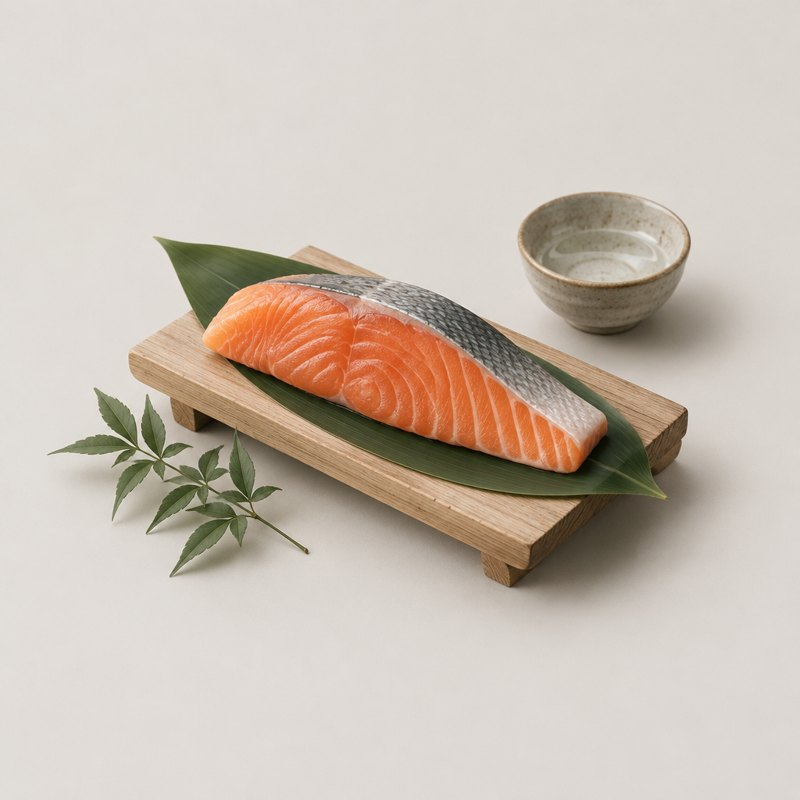
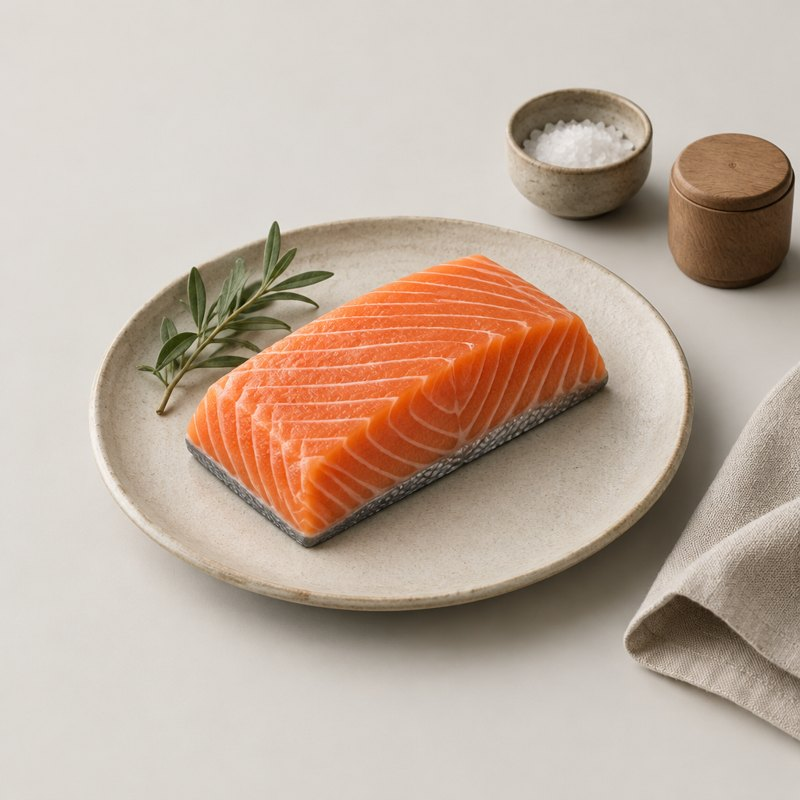
食材審核修正：重生 22 件（補查證外觀）、新增牛部位 6、頭足類 5、木雕動物擺飾 7；食材模板加「只有這一樣食材」

diff --git a/props.js b/props.js
@@ -122,7 +122,7 @@ const RAW = {
     餐具: [['天然竹筷一雙', '長約 24 公分'], ['不鏽鋼湯匙', '長約 15 公分'], ['竹筷筒', '高約 12 公分'], ['白瓷湯匙', '長約 13 公分']],
     軟裝: [['綠玻璃瓶插雞蛋花', '高約 22 公分'], ['綠色鐵皮小電扇', '高約 30 公分'], ['花紋鐵製保溫瓶', '高約 30 公分'], ['紅色塑膠椅一角', '高約 45 公分'], ['舊報紙（無字）', '寬約 40 公分'], ['撕頁月曆（無字）', '寬約 30 公分'], ['茉莉花小盆', '高約 20 公分']],
     墊高: [['竹製蒸籠', '直徑約 25 公分'], ['藤編托盤', '直徑約 35 公分']],
-    食材: [["生白米一小碗", "直徑約 12 公分"], ["糯米一小碗", "直徑約 12 公分"], ["紅豆一小堆", "寬約 12 公分"], ["綠豆一小碗", "直徑約 10 公分"], ["花生一小把", "寬約 10 公分"], ["黑糖塊一小堆", "寬約 10 公分"], ["冬瓜糖塊一小碟", "直徑約 9 公分"], ["乾香菇一小堆", "每朵約 4 公分"], ["蝦米一小碟", "直徑約 9 公分"], ["乾燥白蘿蔔乾一小束", "寬約 10 公分"], ["菜脯一小碟", "直徑約 9 公分"], ["地瓜幾條", "每條約 15 公分"], ["芋頭一顆", "直徑約 12 公分"], ["老薑一塊", "長約 8 公分"], ["紅蔥頭一小堆", "每顆約 3 公分"], ["生雞蛋一小籃", "籃寬約 20 公分"], ["鹹鴨蛋三顆", "每顆約 6 公分"], ["白砂糖一小碗", "直徑約 10 公分"], ["醬油一小瓶", "高約 15 公分"], ["豆腐一塊", "邊長約 8 公分"], ["空心菜一小束", "長約 25 公分"], ["絲瓜一條", "長約 30 公分"], ["大蒜一串", "長約 25 公分"], ["乾辣椒一小串", "長約 15 公分"], ["粗鹽一小碟", "直徑約 9 公分"], ["麵線一小捆", "長約 25 公分"], ["麵粉一小碗", "直徑約 12 公分"], ["香蕉一小串", "長約 18 公分"], ["楊桃一顆", "長約 12 公分"], ["白木耳一小朵", "直徑約 8 公分"]],
+    食材: [["生白米一小碗", "直徑約 12 公分"], ["糯米一小碗", "直徑約 12 公分"], ["紅豆一小堆", "寬約 12 公分"], ["綠豆一小碗", "直徑約 10 公分"], ["花生一小把", "寬約 10 公分"], ["黑糖塊一小堆", "寬約 10 公分"], ["冬瓜糖塊一小碟", "直徑約 9 公分"], ["乾香菇一小堆", "每朵約 4 公分"], ["蝦米一小碟", "直徑約 9 公分"], ["條狀菜脯一小束", "寬約 10 公分"], ["菜脯一小碟", "直徑約 9 公分"], ["地瓜幾條", "每條約 15 公分"], ["芋頭一顆", "直徑約 12 公分"], ["老薑一塊", "長約 8 公分"], ["紅蔥頭一小堆", "每顆約 3 公分"], ["生雞蛋一小籃", "籃寬約 20 公分"], ["鹹鴨蛋三顆", "每顆約 6 公分"], ["白砂糖一小碗", "直徑約 10 公分"], ["醬油一小瓶", "高約 15 公分"], ["豆腐一塊", "邊長約 8 公分"], ["空心菜一小束", "長約 25 公分"], ["絲瓜一條", "長約 30 公分"], ["大蒜一串", "長約 25 公分"], ["乾辣椒一小串", "長約 15 公分"], ["粗鹽一小碟", "直徑約 9 公分"], ["麵線一小捆", "長約 25 公分"], ["麵粉一小碗", "直徑約 12 公分"], ["香蕉一小串", "長約 18 公分"], ["楊桃一顆", "長約 12 公分"], ["白木耳一小朵", "直徑約 8 公分"]],
   },
   korean: {
     桌面: [['奶油色桌面', '桌面'], ['米白微水泥', '桌面'], ['淺奶茶色木桌', '桌面']],
@@ -187,7 +187,7 @@ const RAW = {
     後景: [['白色肌理牆面紙', '後景'], ['小木籬笆擺飾', '寬約 30 公分']],
     容器: [['霧面斑點釉陶盤', '直徑約 24 公分'], ['石陶霧面碗', '直徑約 14 公分'], ['不規則玻璃盤', '直徑約 20 公分'], ['黑色石板盤', '長約 30 公分'], ['白色琺瑯盤', '直徑約 22 公分'], ['小陶碟組', '直徑約 9 公分'], ['透明玻璃杯', '高約 10 公分']],
     餐具: [['金色餐具組', '長約 20 公分'], ['復古銀叉', '長約 18 公分'], ['原木小勺', '長約 15 公分'], ['金色甜點匙', '長約 13 公分']],
-    軟裝: [['人造玫瑰花束', '長約 35 公分'], ['新鮮羅勒葉', '長約 15 公分'], ['穀物雜糧小碟', '直徑約 10 公分'], ['乾燥麥穗', '長約 40 公分']],
+    軟裝: [['人造玫瑰花束', '長約 35 公分'], ['新鮮羅勒葉', '長約 15 公分'], ['穀物雜糧小碟', '直徑約 10 公分'], ['乾燥麥穗', '長約 40 公分'], ["木雕鵝擺飾", "高約 12 公分"], ["木雕鴨擺飾", "高約 10 公分"], ["木雕豬擺飾", "長約 12 公分"], ["木雕牛擺飾", "長約 14 公分"], ["木雕雞擺飾", "高約 12 公分"], ["木雕魚擺飾", "長約 15 公分"], ["木雕蝦擺飾", "長約 12 公分"]],
     墊高: [['原木托盤', '寬約 35 公分'], ['原木砧板', '長約 35 公分'], ['白瓷蛋糕架', '直徑約 25 公分']],
     食材: [["新鮮羅勒葉一小束", "長約 15 公分"], ["檸檬三顆", "每顆約 7 公分"], ["小番茄一小串", "每顆約 3 公分"], ["酪梨半顆", "長約 8 公分"], ["生雞蛋三顆", "每顆約 6 公分"], ["整顆蒜頭兩顆", "每顆約 5 公分"], ["草莓一小碟", "直徑約 10 公分"], ["藍莓一小把", "每顆約 1.5 公分"], ["堅果一小碗", "直徑約 10 公分"], ["橄欖一小碟", "直徑約 9 公分"]],
   },
@@ -209,7 +209,7 @@ const RAW = {
     餐具: [['霧面黑色刀叉', '長約 20 公分'], ['不鏽鋼湯匙', '長約 16 公分'], ['木柄餐刀', '長約 22 公分'], ['金屬料理夾', '長約 25 公分']],
     軟裝: [['鐵絲籃', '寬約 25 公分'], ['玻璃煤油燈', '高約 25 公分'], ['黑鐵小置物架', '寬約 30 公分'], ['金屬齒輪擺飾', '直徑約 10 公分'], ['愛迪生燈泡', '高約 15 公分'], ['空白黑板小立牌', '高約 20 公分'], ['粗麻繩捲', '直徑約 10 公分']],
     墊高: [['舊木箱', '寬約 35 公分'], ['水泥方塊底座', '邊長約 12 公分']],
-    食材: [["咖啡豆一小堆", "寬約 10 公分"], ["黑麥粒一小碗", "直徑約 10 公分"], ["粗鹽一小碟", "直徑約 8 公分"], ["黑胡椒粒一小碟", "直徑約 8 公分"], ["整顆蒜頭兩顆", "每顆約 5 公分"], ["一塊生牛排", "長約 15 公分"], ["紅洋蔥兩顆", "每顆約 7 公分"], ["乾辣椒一小撮", "長約 6 公分"], ["馬鈴薯三顆", "每顆約 7 公分"], ["黑橄欖一小碟", "直徑約 9 公分"]],
+    食材: [["咖啡豆一小堆", "寬約 10 公分"], ["黑麥粒一小碗", "直徑約 10 公分"], ["粗鹽一小碟", "直徑約 8 公分"], ["黑胡椒粒一小碟", "直徑約 8 公分"], ["整顆蒜頭兩顆", "每顆約 5 公分"], ["肋眼牛排一塊", "長約 15 公分"], ["紅洋蔥兩顆", "每顆約 7 公分"], ["乾辣椒一小撮", "長約 6 公分"], ["馬鈴薯三顆", "每顆約 7 公分"], ["黑橄欖一小碟", "直徑約 9 公分"], ["菲力牛排一塊", "厚約 4 公分"], ["紐約客牛排一塊", "長約 20 公分"], ["牛小排一塊", "長約 15 公分"], ["板腱牛排一塊", "長約 18 公分"], ["翼板牛排一塊", "長約 20 公分"], ["牛五花燒烤片一小疊", "寬約 12 公分"]],
   },
   xmas: {
     桌面: [['人造雪粉鋪面', '桌面'], ['深色木板', '約 60×60 公分'], ['霧面金色金屬板', '桌面']],
@@ -289,7 +289,7 @@ const RAW = {
     餐具: [['不鏽鋼筷子一雙', '長約 24 公分'], ['不鏽鋼湯匙', '長約 17 公分'], ['竹製免洗筷（無字筷套）', '長約 21 公分'], ['不鏽鋼食物夾', '長約 24 公分']],
     軟裝: [['紅色塑膠圓凳', '高約 45 公分'], ['不鏽鋼面紙盒（無字）', '寬約 24 公分'], ['不鏽鋼牙籤筒', '高約 7 公分'], ['玻璃調味瓶組（無字）', '高約 10 公分'], ['空綠色玻璃啤酒瓶（無字）', '高約 25 公分'], ['不鏽鋼冰桶', '高約 20 公分'], ['不鏽鋼筷筒', '高約 12 公分']],
     墊高: [['原木厚砧板', '長約 30 公分'], ['不鏽鋼烤盤架', '長約 30 公分']],
-    食材: [["生空心菜一小束", "長約 25 公分"], ["整顆蒜頭三顆", "每顆約 5 公分"], ["蒜瓣一小堆", "每瓣約 3 公分"], ["新鮮紅辣椒一小堆", "長約 8 公分"], ["青蔥一小束", "長約 30 公分"], ["老薑切片一小堆", "寬約 10 公分"], ["九層塔一小束", "長約 15 公分"], ["生透抽一尾", "長約 25 公分"], ["生蛤蜊一小碗", "每顆約 4 公分"], ["生蝦子一小盤", "每隻約 8 公分"], ["生五花肉一塊", "長約 15 公分"], ["一塊生牛排", "長約 15 公分"], ["生雞胸肉一塊", "長約 12 公分"], ["豆豉一小碟", "直徑約 8 公分"], ["豆瓣醬一小碗", "直徑約 9 公分"], ["米酒一小瓶", "高約 18 公分"], ["醬油一小瓶", "高約 15 公分"], ["白胡椒粒一小碟", "直徑約 8 公分"], ["海鹽一小碟", "直徑約 8 公分"], ["生韭菜花一小束", "長約 25 公分"], ["生豆芽菜一小堆", "寬約 12 公分"], ["青江菜幾棵", "長約 15 公分"], ["高麗菜半顆", "直徑約 15 公分"], ["生山蘇一小束", "長約 25 公分"], ["生苦瓜半條", "長約 15 公分"], ["鳳梨半顆", "長約 15 公分"], ["生花枝一尾", "長約 20 公分"], ["乾魷魚絲一小把", "長約 15 公分"], ["生杏鮑菇三支", "長約 12 公分"], ["生雞蛋五顆", "每顆約 6 公分"]],
+    食材: [["生空心菜一小束", "長約 25 公分"], ["整顆蒜頭三顆", "每顆約 5 公分"], ["蒜瓣一小堆", "每瓣約 3 公分"], ["新鮮紅辣椒一小堆", "長約 8 公分"], ["青蔥一小束", "長約 30 公分"], ["老薑切片一小堆", "寬約 10 公分"], ["九層塔一小束", "長約 15 公分"], ["生透抽一尾", "長約 25 公分"], ["生蛤蜊一小碗", "每顆約 4 公分"], ["生蝦子一小盤", "每隻約 8 公分"], ["生五花肉一塊", "長約 15 公分"], ["一塊生牛排", "長約 15 公分"], ["生雞胸肉一塊", "長約 12 公分"], ["豆豉一小碟", "直徑約 8 公分"], ["豆瓣醬一小碗", "直徑約 9 公分"], ["米酒一小瓶", "高約 18 公分"], ["醬油一小瓶", "高約 15 公分"], ["白胡椒粒一小碟", "直徑約 8 公分"], ["海鹽一小碟", "直徑約 8 公分"], ["生韭菜花一小束", "長約 25 公分"], ["生豆芽菜一小堆", "寬約 12 公分"], ["青江菜幾棵", "長約 15 公分"], ["高麗菜半顆", "直徑約 15 公分"], ["生山蘇一小束", "長約 25 公分"], ["生苦瓜半條", "長約 15 公分"], ["鳳梨半顆", "長約 15 公分"], ["生花枝一尾", "長約 20 公分"], ["乾魷魚絲一小把", "長約 15 公分"], ["生杏鮑菇三支", "長約 12 公分"], ["生雞蛋五顆", "每顆約 6 公分"], ["生花枝一尾", "長約 20 公分"], ["生軟絲一尾", "長約 25 公分"], ["生小卷一小堆", "每尾約 10 公分"], ["生魷魚一尾", "長約 30 公分"], ["生章魚一尾", "寬約 20 公分"]],
   },
   izakaya: {
     桌面: [['深胡桃老木桌面', '桌面'], ['黑檀色霧面吧台木面', '桌面'], ['深色竹編桌墊面', '桌面']],
@@ -299,7 +299,7 @@ const RAW = {
     餐具: [['陶製德利酒壺（無字）', '高約 12 公分'], ['陶製清酒杯（無字）', '高約 5 公分'], ['長竹籤一束', '長約 18 公分'], ['黑漆木筷一雙', '長約 23 公分']],
     軟裝: [['日式紅燈籠（無字）', '高約 30 公分'], ['竹製菜單夾（無字）', '寬約 20 公分'], ['小木箱', '寬約 20 公分'], ['麻繩一捆', '直徑約 10 公分'], ['小木桶', '高約 15 公分'], ['竹筷架', '長約 10 公分'], ['黑陶小香爐', '直徑約 8 公分']],
     墊高: [['木製階梯盤架', '長約 30 公分'], ['竹製墊板', '寬約 20 公分']],
-    食材: [["青蔥一小束", "長約 30 公分"], ["新鮮紫蘇葉一小疊", "長約 8 公分"], ["生薑一塊", "長約 8 公分"], ["白蘿蔔泥一小堆", "直徑約 8 公分"], ["一塊生鮭魚", "長約 12 公分"], ["生干貝幾顆", "每顆約 4 公分"], ["生蝦幾尾", "每隻約 10 公分"], ["生雞腿肉一塊", "長約 15 公分"], ["生雞胗一小堆", "寬約 10 公分"], ["生五花肉薄片一小疊", "寬約 12 公分"], ["生香菇三朵", "每朵約 6 公分"], ["生杏鮑菇三支", "長約 12 公分"], ["青椒三顆", "每顆約 6 公分"], ["小番茄一小堆", "每顆約 3 公分"], ["整顆茄子一條", "長約 20 公分"], ["秋葵一小堆", "每條約 7 公分"], ["毛豆莢一小碗", "直徑約 12 公分"], ["生銀杏幾顆", "每顆約 2 公分"], ["整顆檸檬三顆", "每顆約 7 公分"], ["酢橘幾顆", "每顆約 4 公分"], ["生山藥一段", "長約 15 公分"], ["整顆蒜頭兩顆", "每顆約 5 公分"], ["白蔥段一小堆", "每段約 5 公分"], ["粗海鹽一小碟", "直徑約 8 公分"], ["黑胡椒粒一小碟", "直徑約 8 公分"], ["乾昆布一小片", "長約 20 公分"], ["柴魚片一小堆", "寬約 10 公分"], ["白芝麻一小碟", "直徑約 8 公分"], ["一小碗生米", "直徑約 12 公分"], ["生豆腐一塊", "邊長約 8 公分"]],
+    食材: [["青蔥一小束", "長約 30 公分"], ["新鮮紫蘇葉一小疊", "長約 8 公分"], ["生薑一塊", "長約 8 公分"], ["白蘿蔔泥一小堆", "直徑約 8 公分"], ["鮭魚肚切片一塊", "長約 12 公分"], ["生干貝幾顆", "每顆約 4 公分"], ["生蝦幾尾", "每隻約 10 公分"], ["生雞腿肉一塊", "長約 15 公分"], ["生雞胗一小堆", "寬約 10 公分"], ["生五花肉薄片一小疊", "寬約 12 公分"], ["生香菇三朵", "每朵約 6 公分"], ["生杏鮑菇三支", "長約 12 公分"], ["青椒三顆", "每顆約 6 公分"], ["小番茄一小堆", "每顆約 3 公分"], ["整顆茄子一條", "長約 20 公分"], ["秋葵一小堆", "每條約 7 公分"], ["毛豆莢一小碗", "直徑約 12 公分"], ["生銀杏幾顆", "每顆約 2 公分"], ["整顆檸檬三顆", "每顆約 7 公分"], ["酢橘幾顆", "每顆約 4 公分"], ["生山藥一段", "長約 15 公分"], ["整顆蒜頭兩顆", "每顆約 5 公分"], ["白蔥段一小堆", "每段約 5 公分"], ["粗海鹽一小碟", "直徑約 8 公分"], ["黑胡椒粒一小碟", "直徑約 8 公分"], ["乾昆布一小片", "長約 20 公分"], ["柴魚片一小堆", "寬約 10 公分"], ["白芝麻一小碟", "直徑約 8 公分"], ["一小碗生米", "直徑約 12 公分"], ["生豆腐一塊", "邊長約 8 公分"]],
   },
   patisserie: {
     桌面: [['白色灰紋大理石桌面', '桌面'], ['霧面淺橡木桌面', '桌面'], ['霧面水泥灰桌面', '桌面']],
@@ -319,7 +319,7 @@ const RAW = {
     餐具: [['竹製茶匙', '長約 13 公分'], ['漆木筷一雙', '長約 23 公分'], ['木牙籤一小束', '長約 9 公分'], ['木製湯匙', '長約 18 公分']],
     軟裝: [['木製茶托', '直徑約 12 公分'], ['檜木小板凳', '高約 15 公分'], ['竹製花器（空）', '高約 20 公分'], ['灰色卵石一小堆', '每顆約 6 公分'], ['小竹簍', '直徑約 15 公分'], ['麻繩一捆', '直徑約 10 公分'], ['檜木小木桶', '高約 12 公分']],
     墊高: [['檜木墊板', '長約 25 公分'], ['石板墊', '寬約 20 公分']],
-    食材: [["生白米一小碗", "直徑約 12 公分"], ["青梅一小碟", "每顆約 3 公分"], ["文旦兩顆", "每顆約 8 公分"], ["新鮮山葵根一條", "長約 12 公分"], ["生香菇三朵", "每朵約 6 公分"], ["乾香菇一小堆", "每朵約 4 公分"], ["乾昆布一小片", "長約 20 公分"], ["柴魚片一小堆", "寬約 10 公分"], ["白味噌一小碗", "直徑約 9 公分"], ["粗海鹽一小碟", "直徑約 8 公分"], ["青蔥一小束", "長約 30 公分"], ["生薑一塊", "長約 8 公分"], ["生豆腐一塊", "邊長約 8 公分"], ["生雞蛋三顆", "每顆約 6 公分"], ["地瓜兩條", "每條約 15 公分"], ["栗子一小堆", "每顆約 3 公分"], ["銀杏果一小撮", "每顆約 2 公分"], ["白蘿蔔一小段", "長約 15 公分"], ["牛蒡一條", "長約 30 公分"], ["蓮藕一段", "長約 15 公分"], ["菠菜一小束", "長約 20 公分"], ["一塊生鮭魚", "長約 12 公分"], ["生蝦兩尾", "每隻約 10 公分"], ["烏龍麵生麵一小捆", "長約 20 公分"], ["蕎麥麵乾麵一小捆", "長約 22 公分"], ["綠茶茶葉一小碟", "直徑約 9 公分"], ["焙茶茶葉一小撮", "直徑約 8 公分"], ["紅豆一小碗", "直徑約 10 公分"], ["黑芝麻一小碟", "直徑約 8 公分"], ["柿子兩顆", "每顆約 7 公分"]],
+    食材: [["生白米一小碗", "直徑約 12 公分"], ["青梅一小碟", "每顆約 3 公分"], ["文旦兩顆", "每顆約 8 公分"], ["新鮮山葵根一條", "長約 12 公分"], ["生香菇三朵", "每朵約 6 公分"], ["乾香菇一小堆", "每朵約 4 公分"], ["乾昆布一小片", "長約 20 公分"], ["柴魚片一小堆", "寬約 10 公分"], ["白味噌一小碗", "直徑約 9 公分"], ["粗海鹽一小碟", "直徑約 8 公分"], ["青蔥一小束", "長約 30 公分"], ["生薑一塊", "長約 8 公分"], ["生豆腐一塊", "邊長約 8 公分"], ["生雞蛋三顆", "每顆約 6 公分"], ["地瓜兩條", "每條約 15 公分"], ["栗子一小堆", "每顆約 3 公分"], ["銀杏果一小撮", "每顆約 2 公分"], ["白蘿蔔一小段", "長約 15 公分"], ["牛蒡一條", "長約 30 公分"], ["蓮藕一段", "長約 15 公分"], ["菠菜一小束", "長約 20 公分"], ["帶皮鮭魚菲力一塊", "長約 12 公分"], ["生蝦兩尾", "每隻約 10 公分"], ["烏龍麵生麵一小捆", "長約 20 公分"], ["蕎麥麵乾麵一小捆", "長約 22 公分"], ["綠茶茶葉一小碟", "直徑約 9 公分"], ["焙茶茶葉一小撮", "直徑約 8 公分"], ["紅豆一小碗", "直徑約 10 公分"], ["黑芝麻一小碟", "直徑約 8 公分"], ["柿子兩顆", "每顆約 7 公分"]],
   },
 };
 

diff --git a/審核頁.py b/審核頁.py
@@ -20,19 +20,21 @@ h2{margin:20px 16px 6px}.grid{display:grid;grid-template-columns:repeat(auto-fil
 .c .n{font-size:13px;margin:6px 0 4px}.c input{width:100%;box-sizing:border-box;font:inherit;font-size:13px;padding:4px 6px;border:1px solid #ddd;border-radius:6px;margin-bottom:6px}
 .b{display:flex;gap:4px}.b button{flex:1;border:1px solid #ccc;background:#fff;border-radius:6px;padding:5px 0;font-size:13px;cursor:pointer}
 .b button.on{background:#1d1b19;color:#fff;border-color:#1d1b19}.c.del{opacity:.45}.c.re{outline:2px solid #e9b44c}
+#zoom{position:fixed;top:60px;right:16px;width:min(560px,45vw);aspect-ratio:1;background:#fff;border:1px solid #ccc;border-radius:12px;box-shadow:0 8px 30px rgba(0,0,0,.25);display:none;z-index:9;pointer-events:none;overflow:hidden}#zoom img{width:100%;height:100%;object-fit:contain}#zoom div{position:absolute;left:0;right:0;bottom:0;background:rgba(0,0,0,.6);color:#fff;font-size:13px;padding:6px 10px}
 textarea{width:calc(100% - 32px);margin:8px 16px 20px;box-sizing:border-box;font:inherit;font-size:13px;padding:8px;border:1px solid #ddd;border-radius:8px;min-height:60px}</style>
 <header><b>道具審核（__N__ 件）</b><span id="sum"></span><button id="cp">複製結果</button></header>
-<p style="margin:10px 16px;font-size:13px;color:#666">每件點「保留／刪除／重生」，要改名直接在框裡打新品名（含尺寸）；每個風格下方可打「新增」，一行一件：品名｜尺寸。答案自動存在這台電腦，填完按右上「複製結果」貼回對話。</p>
-<div id="root"></div>
+<p style="margin:10px 16px;font-size:13px;color:#666">每件點「保留／刪除／重生」，要改名直接在框裡打新品名（含尺寸），下一格寫修改內容（例：不要蛋和牛奶、顏色要深一點）；每個風格下方可打「新增」，一行一件：品名｜尺寸。答案自動存在這台電腦，填完按右上「複製結果」貼回對話。</p>
+<div id="root"></div><div id="zoom"><img><div></div></div>
 <script>
 const D=__DATA__,KEY='review_'+__KEY__;let S={};try{S=JSON.parse(localStorage.getItem(KEY)||'{}')}catch(e){}
 const save=()=>{try{localStorage.setItem(KEY,JSON.stringify(S))}catch(e){}};
 const esc=s=>String(s).replace(/[&<>"]/g,c=>({'&':'&amp;','<':'&lt;','>':'&gt;','"':'&quot;'}[c]));
-function render(){const sts=[...new Set(D.map(d=>d.st))];document.getElementById('root').innerHTML=sts.map(st=>`<h2>${st}</h2><div class="grid">${D.filter(d=>d.st===st).map((d,i)=>{const v=S[d.id]||{};return `<div class="c ${v.a==='刪除'?'del':v.a==='重生'?'re':''}" data-id="${d.id}"><img src="${d.img}" loading="lazy"><div class="n">${String(i+1).padStart(2,'0')} ${esc(d.cat)}｜${esc(d.name)}</div><input placeholder="改名（品名｜尺寸）" value="${esc(v.t||'')}"><div class="b">${['保留','刪除','重生'].map(a=>`<button data-a="${a}" class="${(v.a||'保留')===a?'on':''}">${a}</button>`).join('')}</div></div>`}).join('')}</div><textarea data-add="${st}" placeholder="${st} 新增（一行一件：品名｜尺寸）">${esc(S['+'+st]||'')}</textarea>`).join('');sum()}
-function sum(){const n=Object.values(S).filter(v=>v&&v.a==='刪除').length,r=Object.values(S).filter(v=>v&&v.a==='重生').length,c=Object.values(S).filter(v=>v&&v.t).length;document.getElementById('sum').textContent=`刪除 ${n}｜重生 ${r}｜改名 ${c}`}
+function render(){const sts=[...new Set(D.map(d=>d.st))];document.getElementById('root').innerHTML=sts.map(st=>`<h2>${st}</h2><div class="grid">${D.filter(d=>d.st===st).map((d,i)=>{const v=S[d.id]||{};return `<div class="c ${v.a==='刪除'?'del':v.a==='重生'?'re':''}" data-id="${d.id}"><img src="${d.img}" loading="lazy"><div class="n">${String(i+1).padStart(2,'0')} ${esc(d.cat)}｜${esc(d.name)}</div><input data-f="t" placeholder="改名（品名｜尺寸）" value="${esc(v.t||'')}"><input data-f="m" placeholder="修改內容（要怎麼改／不要什麼）" value="${esc(v.m||'')}"><div class="b">${['保留','刪除','重生'].map(a=>`<button data-a="${a}" class="${(v.a||'保留')===a?'on':''}">${a}</button>`).join('')}</div></div>`}).join('')}</div><textarea data-add="${st}" placeholder="${st} 新增（一行一件：品名｜尺寸）">${esc(S['+'+st]||'')}</textarea>`).join('');sum()}
+function sum(){const n=Object.values(S).filter(v=>v&&v.a==='刪除').length,r=Object.values(S).filter(v=>v&&v.a==='重生').length,c=Object.values(S).filter(v=>v&&v.t).length,m=Object.values(S).filter(v=>v&&v.m).length;document.getElementById('sum').textContent=`刪除 ${n}｜重生 ${r}｜改名 ${c}｜修改 ${m}`}
 document.addEventListener('click',e=>{const b=e.target.closest('button[data-a]');if(!b)return;const id=b.closest('.c').dataset.id;S[id]=S[id]||{};S[id].a=b.dataset.a;save();render()});
-document.addEventListener('input',e=>{if(e.target.dataset.add){S['+'+e.target.dataset.add]=e.target.value;save();return}const c=e.target.closest('.c');if(!c)return;S[c.dataset.id]=S[c.dataset.id]||{};S[c.dataset.id].t=e.target.value.trim();save();sum()});
-document.getElementById('cp').onclick=e=>{const L=['【道具審核結果】'];D.forEach(d=>{const v=S[d.id]||{};if(v.a==='刪除')L.push(`${d.id} 刪除`);else if(v.a==='重生')L.push(`${d.id} 重生${v.t?'→'+v.t:''}`);else if(v.t)L.push(`${d.id} 改名→${v.t}`)});Object.keys(S).filter(k=>k[0]==='+'&&S[k].trim()).forEach(k=>L.push(`${k.slice(1)} 新增：`+S[k].trim().split('\\n').join('；')));const t=L.join('\\n');navigator.clipboard.writeText(t).then(()=>e.target.textContent='已複製 ✓ 貼回對話',()=>prompt('複製這段：',t))};
+document.addEventListener('input',e=>{if(e.target.dataset.add){S['+'+e.target.dataset.add]=e.target.value;save();return}const c=e.target.closest('.c');if(!c)return;S[c.dataset.id]=S[c.dataset.id]||{};S[c.dataset.id][e.target.dataset.f||'t']=e.target.value.trim();save();sum()});
+document.getElementById('cp').onclick=e=>{const L=['【道具審核結果】'];D.forEach(d=>{const v=S[d.id]||{};if(v.a==='刪除')L.push(`${d.id} 刪除`);else if(v.a==='重生')L.push(`${d.id} 重生${v.t?'→'+v.t:''}${v.m?'｜修改：'+v.m:''}`);else if(v.t||v.m)L.push(`${d.id}${v.t?' 改名→'+v.t:''}${v.m?' 修改：'+v.m:''}`)});Object.keys(S).filter(k=>k[0]==='+'&&S[k].trim()).forEach(k=>L.push(`${k.slice(1)} 新增：`+S[k].trim().split('\\n').join('；')));const t=L.join('\\n');navigator.clipboard.writeText(t).then(()=>e.target.textContent='已複製 ✓ 貼回對話',()=>prompt('複製這段：',t))};
+const Z=document.getElementById('zoom');document.addEventListener('mouseover',e=>{const c=e.target.closest('.c');if(!c||e.target.tagName!=='IMG')return;const d=D.find(x=>x.id===c.dataset.id);Z.querySelector('img').src=d.img;Z.querySelector('div').textContent=d.st+'｜'+d.cat+'｜'+d.name;Z.style.display='block';const r=c.getBoundingClientRect();Z.style.right=r.left>innerWidth/2?'auto':'16px';Z.style.left=r.left>innerWidth/2?'16px':'auto'});document.addEventListener('mouseout',e=>{if(e.target.tagName==='IMG'&&e.target.closest('.c'))Z.style.display='none'});
 render();
 </script>'''.replace('__DATA__', json.dumps(data, ensure_ascii=False)).replace('__N__', str(len(data))).replace('__KEY__', json.dumps(out.stem))
 out.write_text(page, encoding='utf-8'); print('產生', out, len(data), '件（用 open 開）')

diff --git a/生圖清單.py b/生圖清單.py
@@ -27,7 +27,7 @@ def base(p):
         return (f"空的{p['name']}，上面完全沒有任何東西，{p['style']}風格道具，{TASTE}，單一物件置中，商品攝影，淺灰色無縫背景（#E9E6E1），"
                 f"柔和頂光、底部有淡淡接觸陰影，約 30 度俯角，物件完整入鏡、四周留白，無文字、無 logo、無人物，沒有任何食物或點心。")
     if p['cat'] == '食材':  # 原料：一小組、生的、不是料理（11-02 加）
-        return (f"{p['name']}，生的原料本身，一小組自然擺放（不是做好的料理、不是飲料、沒有盤子以外的餐具），{p['style']}風格道具，{TASTE}，置中，商品攝影，淺灰色無縫背景（#E9E6E1），"
+        return (f"{p['name']}，生的原料本身，只有這一樣食材、旁邊沒有其他食材或配料（不是做好的料理、不是飲料、沒有盤子以外的餐具、沒有擺飾），{p['style']}風格道具，{TASTE}，置中，商品攝影，淺灰色無縫背景（#E9E6E1），"
                 f"柔和頂光、底部有淡淡接觸陰影，約 30 度俯角，完整入鏡、四周留白，無文字、無 logo、無人物、無包裝。")
     # 只有這件東西：野餐、手搖風格會畫成整個場景或一杯飲料（10-30 實測）
     return (f"{p['name']}，只有這一件東西本身，不是場景、不是飲料、旁邊沒有其他物件，{p['style']}風格道具，{TASTE}，單一物件置中，商品攝影，淺灰色無縫背景（#E9E6E1），"
